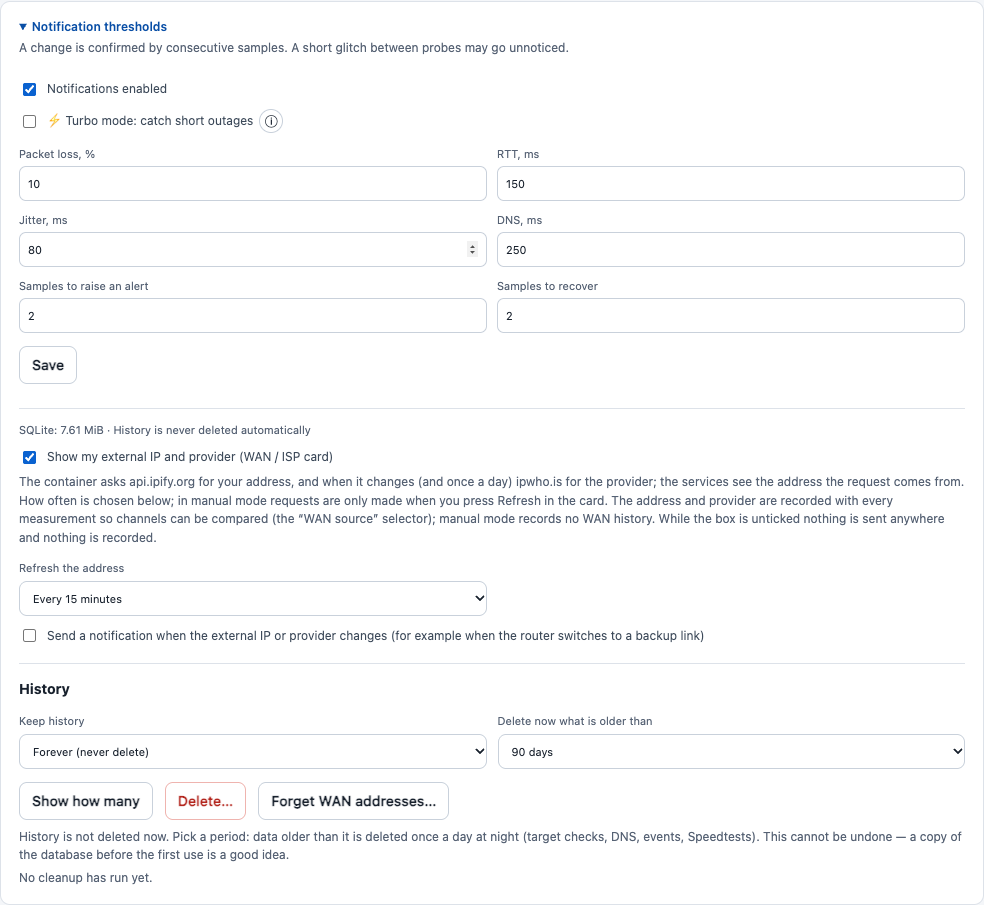
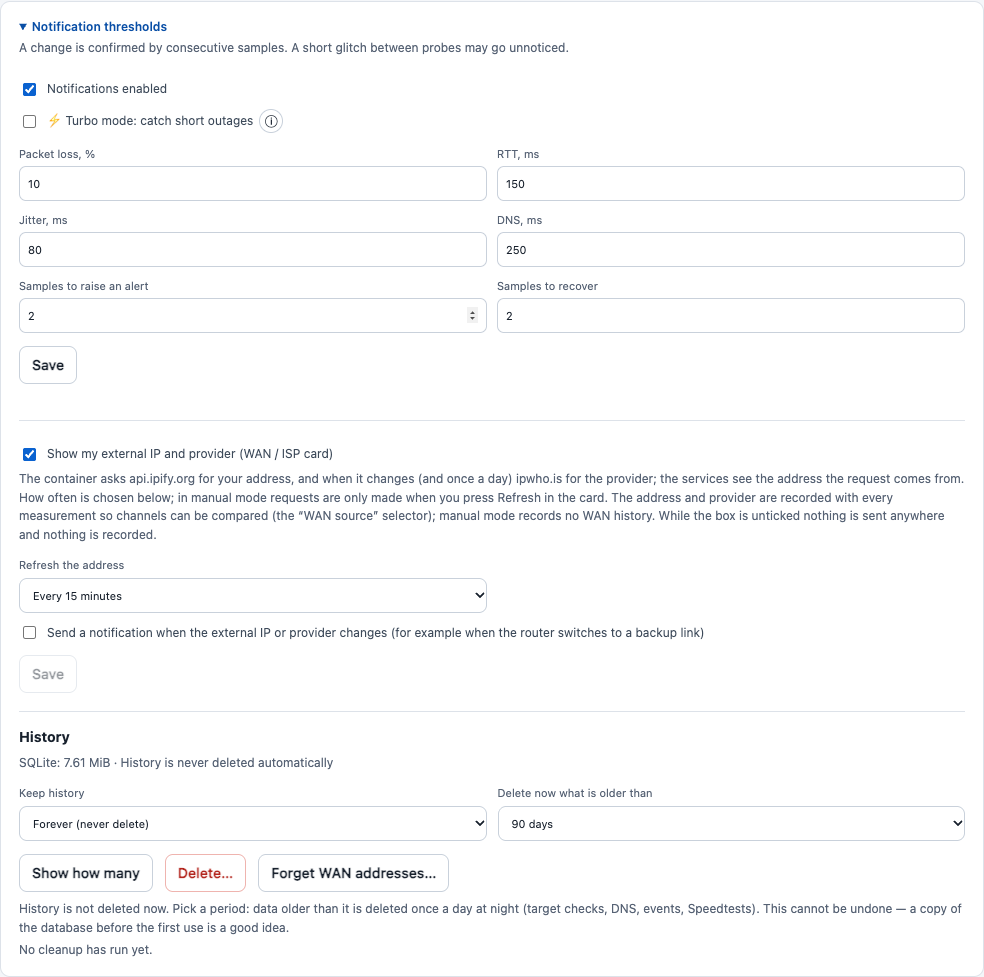
Settings: external IP options are saved with a Save button; database size moved to History
The checkbox, the check interval and the change notification are now a draft: nothing is sent until Save, a data refresh
does not overwrite what is being edited, a failed save keeps the edit, and the card shows what is stored until then.
The 'SQLite: N MiB · ...' line moved from above the external-IP block into the History block.

diff --git a/src/index.html b/src/index.html
@@ -68,6 +68,7 @@
     .head-tools { display:flex;gap:10px;align-items:center;flex-wrap:wrap;justify-content:flex-end } .head-tools .chart-select { max-width:300px }
     .wan-src { display:block;color:var(--mute);font-size:11px;overflow-wrap:anywhere }
     .btn.danger { border-color:var(--bad-line);color:var(--bad) } .btn.danger:hover:not(:disabled) { background:var(--bad-bg) }
+    #ipBox { margin-top:18px;padding-top:14px;border-top:1px solid var(--line) }
     #retBox { margin-top:18px;padding-top:14px;border-top:1px solid var(--line) }
     .pick { display:inline-flex;align-items:center;gap:6px;color:var(--mute);font-size:12px }
     .pick select { background:var(--input-bg);color:var(--text);border:1px solid var(--input-line);border-radius:var(--rad-sm);padding:8px 9px;max-width:100% }
@@ -560,8 +561,9 @@
       <div class="stack">
         <section class="card" id="dnsCard"><div class="card-head"><div><h2 data-i18n="dns.title">DNS-серверы</h2><div class="card-sub" data-i18n="dns.sub">Ответ на DNS-запросы</div></div></div><div id="dnsList"><p class="muted">…</p></div></section>
         <section class="card" id="eventsCard"><div class="card-head"><div><h2 data-i18n="events.title">События</h2><div class="card-sub" data-i18n="events.sub">Подтверждённые изменения состояния</div></div></div><div class="events" id="eventList"><p class="muted">…</p></div><div id="eventsStatus" class="section-status"></div><div class="info-note" data-i18n="events.note">Предупреждения и восстановление передаются через штатные уведомления Unraid.</div></section>
-        <section class="card" id="settingsCard"><details id="alertSettings" style="margin:0;padding:0;border:0"><summary data-i18n="set.title">Пороги уведомлений</summary><p class="card-sub" data-i18n="set.note">Изменение подтверждается последовательными замерами. Короткий сбой между пробами может остаться незамеченным.</p><form id="settingsForm"><fieldset id="settingsFields" disabled style="border:0;padding:0;margin:0"><label class="check"><input type="checkbox" id="enabled"> <span data-i18n="set.enabled">Уведомления включены</span></label><div class="turbo-row"><label class="check"><input type="checkbox" id="turbo"> <span data-i18n="set.turbo">⚡ Turbo-режим: ловить короткие обрывы</span></label><button type="button" class="info-btn" id="turboInfo" aria-haspopup="dialog" aria-controls="turboDialog" data-i18n-attr="aria-label:turbo.about;title:turbo.about">ⓘ</button></div><p class="card-sub" id="turboUnavailable" hidden data-i18n="turbo.unavailable"></p><div class="setting-grid" style="margin-top:12px"><label><span data-i18n="set.loss">Потеря пакетов, %</span><input id="loss_pct" type="number" min="0" max="100" step="any" required></label><label><span>RTT, ms</span><input id="latency_ms" type="number" min="0" max="60000" step="any" required></label><label><span data-i18n="set.jitter">Джиттер, ms</span><input id="jitter_ms" type="number" min="0" max="60000" step="any" required></label><label><span>DNS, ms</span><input id="dns_ms" type="number" min="0" max="60000" step="any" required></label><label><span data-i18n="set.confirm">Замеров для тревоги</span><input id="confirm_samples" type="number" min="1" max="20" step="1" required></label><label><span data-i18n="set.recovery">Замеров для восстановления</span><input id="recovery_samples" type="number" min="1" max="20" step="1" required></label></div><div class="settings-actions"><button class="btn" type="submit" data-i18n="set.save">Сохранить</button><span class="card-sub" id="settingsMessage" role="status"></span></div></fieldset></form><div id="settingsStatus" class="section-status"></div><div class="info-note" id="storageInfo"></div><div class="pref-row"><label class="check"><input type="checkbox" id="show_public_ip" disabled> <span data-i18n="ip.label">Показывать мой внешний IP</span></label><p class="card-sub" data-i18n="ip.note" style="margin:6px 0 0"></p><div class="form-line"><label><span data-i18n="wan.check">Обновлять адрес</span><select id="wan_check" disabled><option value="0" data-i18n="wan.c0"></option><option value="15" data-i18n="wan.c15"></option><option value="1" data-i18n="wan.c1"></option></select></label></div><label class="check"><input type="checkbox" id="wan_notify" disabled> <span data-i18n="wan.notify">Присылать уведомление при смене внешнего IP</span></label><p class="card-sub" id="wanNotifyNote" data-i18n="wan.notifyManual" style="margin:4px 0 0" hidden></p><span class="card-sub" id="ipMessage" role="status"></span></div>
+        <section class="card" id="settingsCard"><details id="alertSettings" style="margin:0;padding:0;border:0"><summary data-i18n="set.title">Пороги уведомлений</summary><p class="card-sub" data-i18n="set.note">Изменение подтверждается последовательными замерами. Короткий сбой между пробами может остаться незамеченным.</p><form id="settingsForm"><fieldset id="settingsFields" disabled style="border:0;padding:0;margin:0"><label class="check"><input type="checkbox" id="enabled"> <span data-i18n="set.enabled">Уведомления включены</span></label><div class="turbo-row"><label class="check"><input type="checkbox" id="turbo"> <span data-i18n="set.turbo">⚡ Turbo-режим: ловить короткие обрывы</span></label><button type="button" class="info-btn" id="turboInfo" aria-haspopup="dialog" aria-controls="turboDialog" data-i18n-attr="aria-label:turbo.about;title:turbo.about">ⓘ</button></div><p class="card-sub" id="turboUnavailable" hidden data-i18n="turbo.unavailable"></p><div class="setting-grid" style="margin-top:12px"><label><span data-i18n="set.loss">Потеря пакетов, %</span><input id="loss_pct" type="number" min="0" max="100" step="any" required></label><label><span>RTT, ms</span><input id="latency_ms" type="number" min="0" max="60000" step="any" required></label><label><span data-i18n="set.jitter">Джиттер, ms</span><input id="jitter_ms" type="number" min="0" max="60000" step="any" required></label><label><span>DNS, ms</span><input id="dns_ms" type="number" min="0" max="60000" step="any" required></label><label><span data-i18n="set.confirm">Замеров для тревоги</span><input id="confirm_samples" type="number" min="1" max="20" step="1" required></label><label><span data-i18n="set.recovery">Замеров для восстановления</span><input id="recovery_samples" type="number" min="1" max="20" step="1" required></label></div><div class="settings-actions"><button class="btn" type="submit" data-i18n="set.save">Сохранить</button><span class="card-sub" id="settingsMessage" role="status"></span></div></fieldset></form><div id="settingsStatus" class="section-status"></div><div class="pref-row" id="ipBox"><label class="check"><input type="checkbox" id="show_public_ip" disabled> <span data-i18n="ip.label">Показывать мой внешний IP</span></label><p class="card-sub" data-i18n="ip.note" style="margin:6px 0 0"></p><div class="form-line"><label><span data-i18n="wan.check">Обновлять адрес</span><select id="wan_check" disabled><option value="0" data-i18n="wan.c0"></option><option value="15" data-i18n="wan.c15"></option><option value="1" data-i18n="wan.c1"></option></select></label></div><label class="check"><input type="checkbox" id="wan_notify" disabled> <span data-i18n="wan.notify">Присылать уведомление при смене внешнего IP</span></label><p class="card-sub" id="wanNotifyNote" data-i18n="wan.notifyManual" style="margin:4px 0 0" hidden></p><div class="settings-actions"><button type="button" class="btn" id="ipSave" disabled data-i18n="set.save">Сохранить</button><span class="card-sub" id="ipMessage" role="status"></span></div></div>
           <div class="pref-row" id="retBox"><strong data-i18n="hist.title">История данных</strong>
+            <div class="card-sub" id="storageInfo" style="margin:6px 0 0"></div>
             <div class="form-line"><label><span data-i18n="hist.keep">Хранить историю</span><select id="retKeep" disabled><option value="0" data-i18n="hist.forever"></option><option value="7" data-i18n="hist.r7"></option><option value="30" data-i18n="hist.r30"></option><option value="90" data-i18n="hist.r90"></option><option value="180" data-i18n="hist.r180"></option><option value="365" data-i18n="hist.r365"></option></select></label><label><span data-i18n="hist.clean">Удалить сейчас данные старше</span><select id="retDays" disabled><option value="7" data-i18n="hist.r7"></option><option value="30" data-i18n="hist.r30"></option><option value="90" data-i18n="hist.r90" selected></option><option value="180" data-i18n="hist.r180"></option><option value="365" data-i18n="hist.r365"></option></select></label></div>
             <div class="settings-actions"><button type="button" class="btn" id="retPreview" disabled data-i18n="hist.preview">Показать, сколько</button><button type="button" class="btn danger" id="retDelete" disabled data-i18n="hist.delete">Удалить…</button><button type="button" class="btn" id="wanForget" disabled data-i18n="wan.forget">Забыть адреса WAN…</button></div>
             <p class="card-sub" id="retNote" style="margin:8px 0 0"></p><p class="card-sub" id="retLast" style="margin:4px 0 0"></p><span class="card-sub" id="retMsg" role="status"></span></div></details></section>
@@ -633,7 +635,7 @@
       'sched.container':'Как задано в контейнере: {state}','sched.cEvery':'каждые {h} ч','sched.cOff':'выключено','sched.noteContainer':'Расписание задают переменные контейнера SPEEDTEST_ENABLED и SPEEDTEST_INTERVAL ({state}). Выберите другой вариант, чтобы управлять им здесь.','sched.noteOff':'Автоматические тесты выключены; ручной запуск работает.','sched.noteNext':'Следующий тест: {when} · часовой пояс {tz}','sched.noteApply':'Сохраните, чтобы применить расписание.',
       'sched.invalidInterval':'Интервал — целое число часов от 1 до 168.','sched.invalidTimes':'Время — от 1 до 4 разных значений ЧЧ:ММ, например 03:00, 15:30.','sched.saving':'Сохранение…','sched.saved':'Расписание сохранено.','sched.notSaved':'Не сохранено: {e}','sched.unavailable':'Настройки расписания сейчас недоступны.',
       'set.title':'Пороги уведомлений','set.note':'Изменение подтверждается последовательными замерами. Короткий сбой между пробами может остаться незамеченным.','set.enabled':'Уведомления включены','set.loss':'Потеря пакетов, %','set.jitter':'Джиттер, ms','set.confirm':'Замеров для тревоги','set.recovery':'Замеров для восстановления','set.save':'Сохранить',
-      'ip.label':'Показывать мой внешний IP и провайдера (карточка WAN / провайдер)','ip.note':'Контейнер спрашивает api.ipify.org, какой у вас адрес, а при смене адреса (и раз в сутки) — ipwho.is, какой это провайдер; сервисы видят адрес, с которого идёт запрос. Как часто — выбирается ниже; в ручном режиме запросы идут только по кнопке «Обновить» в карточке. Адрес и провайдер записываются с каждым замером, чтобы сравнивать каналы (селектор «WAN-источник»); в ручном режиме история WAN не пишется. Пока галка снята, наружу ничего не отправляется и ничего не записывается.','wan.title':'WAN / провайдер','wan.ip':'Внешний IP','wan.isp':'Провайдер','wan.pending':'Определяется…','wan.unknown':'не указан','wan.meta':'Проверено {when} · источник {source} · {every}','wan.e0':'обновляется по кнопке','wan.e15':'проверка раз в 15 минут','wan.e1':'проверка раз в минуту','wan.refresh':'Обновить','wan.refreshing':'Обновляется…','wan.manualHint':'Нажмите «Обновить», чтобы узнать адрес и провайдера.','wan.check':'Обновлять адрес','wan.c0':'Вручную (по кнопке в карточке)','wan.c15':'Каждые 15 минут','wan.c1':'Каждую минуту','wan.notifyManual':'В ручном режиме уведомления о смене адреса недоступны: контейнер не следит за каналом.','wan.fail':'Не удалось определить адрес: {e}','ip.saveFail':'Не удалось сохранить: {e}',
+      'ip.label':'Показывать мой внешний IP и провайдера (карточка WAN / провайдер)','ip.note':'Контейнер спрашивает api.ipify.org, какой у вас адрес, а при смене адреса (и раз в сутки) — ipwho.is, какой это провайдер; сервисы видят адрес, с которого идёт запрос. Как часто — выбирается ниже; в ручном режиме запросы идут только по кнопке «Обновить» в карточке. Адрес и провайдер записываются с каждым замером, чтобы сравнивать каналы (селектор «WAN-источник»); в ручном режиме история WAN не пишется. Пока галка снята, наружу ничего не отправляется и ничего не записывается.','wan.title':'WAN / провайдер','wan.ip':'Внешний IP','wan.isp':'Провайдер','wan.pending':'Определяется…','wan.unknown':'не указан','wan.meta':'Проверено {when} · источник {source} · {every}','wan.e0':'обновляется по кнопке','wan.e15':'проверка раз в 15 минут','wan.e1':'проверка раз в минуту','wan.refresh':'Обновить','wan.refreshing':'Обновляется…','wan.manualHint':'Нажмите «Обновить», чтобы узнать адрес и провайдера.','wan.check':'Обновлять адрес','wan.c0':'Вручную (по кнопке в карточке)','wan.c15':'Каждые 15 минут','wan.c1':'Каждую минуту','wan.notifyManual':'В ручном режиме уведомления о смене адреса недоступны: контейнер не следит за каналом.','wan.fail':'Не удалось определить адрес: {e}','ip.saveFail':'Не удалось сохранить: {e}','ip.saved':'Сохранено.',
       'wan.notify':'Присылать уведомление при смене внешнего IP или провайдера (например, при переключении на резервный канал)',
       'wan.source':'WAN-источник','wan.all':'Все WAN-источники','wan.current':'Текущий WAN','wan.unknownIsp':'провайдер не указан','wan.none':'WAN не записан (до включения)','wan.samplesN':'{n} замеров','wan.noQuality':'Оценка качества относится ко всей сети и не строится для отдельного WAN','wan.bySource':'WAN','wan.forget':'Забыть адреса WAN…','wan.forgetConfirm':'Стереть записанные IP-адреса и провайдеров из всей истории? Сами измерения останутся. Это нельзя отменить.','wan.forgotten':'Адреса стёрты из {n} записей.',
       'hist.title':'История данных','hist.keep':'Хранить историю','hist.forever':'Всегда (не удалять)','hist.r7':'7 дней','hist.r30':'30 дней','hist.r90':'90 дней','hist.r180':'180 дней','hist.r365':'1 год','hist.clean':'Удалить сейчас данные старше','hist.preview':'Показать, сколько','hist.delete':'Удалить…',
@@ -698,7 +700,7 @@
       'sched.title':'Schedule and notifications','sched.mode':'Automatic tests','sched.off':'Off','sched.interval':'Every N hours','sched.daily':'Every day at set times','sched.every':'Every, hours (1–168)','sched.times':'Times, up to 4 (comma separated)','sched.notify':'Send an Unraid notification after every automatic test (and when one fails)',
       'sched.container':'As set in the container: {state}','sched.cEvery':'every {h} h','sched.cOff':'off','sched.noteContainer':'The schedule comes from the container variables SPEEDTEST_ENABLED and SPEEDTEST_INTERVAL ({state}). Pick another option to manage it here.','sched.noteOff':'Automatic tests are off; manual runs still work.','sched.noteNext':'Next test: {when} · time zone {tz}','sched.noteApply':'Save to apply the schedule.',
       'sched.invalidInterval':'The interval is a whole number of hours from 1 to 168.','sched.invalidTimes':'Times are 1 to 4 different HH:MM values, for example 03:00, 15:30.','sched.saving':'Saving…','sched.saved':'Schedule saved.','sched.notSaved':'Not saved: {e}','sched.unavailable':'Schedule settings are unavailable right now.',
-      'ip.label':'Show my external IP and provider (WAN / ISP card)','ip.note':'The container asks api.ipify.org for your address, and when it changes (and once a day) ipwho.is for the provider; the services see the address the request comes from. How often is chosen below; in manual mode requests are only made when you press Refresh in the card. The address and provider are recorded with every measurement so channels can be compared (the “WAN source” selector); manual mode records no WAN history. While the box is unticked nothing is sent anywhere and nothing is recorded.','wan.title':'WAN / ISP','wan.ip':'Public IP','wan.isp':'ISP','wan.pending':'Looking up…','wan.unknown':'not reported','wan.meta':'Checked {when} · source {source} · {every}','wan.e0':'refreshed on demand','wan.e15':'checked every 15 minutes','wan.e1':'checked every minute','wan.refresh':'Refresh','wan.refreshing':'Refreshing…','wan.manualHint':'Press Refresh to look up the address and provider.','wan.check':'Refresh the address','wan.c0':'Manually (button in the card)','wan.c15':'Every 15 minutes','wan.c1':'Every minute','wan.notifyManual':'Notifications about a changed address are not available in manual mode: the container does not watch the link.','wan.fail':'The address could not be determined: {e}','ip.saveFail':'Could not save: {e}',
+      'ip.label':'Show my external IP and provider (WAN / ISP card)','ip.note':'The container asks api.ipify.org for your address, and when it changes (and once a day) ipwho.is for the provider; the services see the address the request comes from. How often is chosen below; in manual mode requests are only made when you press Refresh in the card. The address and provider are recorded with every measurement so channels can be compared (the “WAN source” selector); manual mode records no WAN history. While the box is unticked nothing is sent anywhere and nothing is recorded.','wan.title':'WAN / ISP','wan.ip':'Public IP','wan.isp':'ISP','wan.pending':'Looking up…','wan.unknown':'not reported','wan.meta':'Checked {when} · source {source} · {every}','wan.e0':'refreshed on demand','wan.e15':'checked every 15 minutes','wan.e1':'checked every minute','wan.refresh':'Refresh','wan.refreshing':'Refreshing…','wan.manualHint':'Press Refresh to look up the address and provider.','wan.check':'Refresh the address','wan.c0':'Manually (button in the card)','wan.c15':'Every 15 minutes','wan.c1':'Every minute','wan.notifyManual':'Notifications about a changed address are not available in manual mode: the container does not watch the link.','wan.fail':'The address could not be determined: {e}','ip.saveFail':'Could not save: {e}','ip.saved':'Saved.',
       'wan.notify':'Send a notification when the external IP or provider changes (for example when the router switches to a backup link)',
       'wan.source':'WAN source','wan.all':'All WAN sources','wan.current':'Current WAN','wan.unknownIsp':'provider not reported','wan.none':'No WAN recorded (before it was switched on)','wan.samplesN':'{n} samples','wan.noQuality':'The quality score belongs to the whole network and is not drawn for a single WAN','wan.bySource':'WAN','wan.forget':'Forget WAN addresses…','wan.forgetConfirm':'Erase the recorded IP addresses and providers from the whole history? The measurements themselves stay. This cannot be undone.','wan.forgotten':'Addresses erased from {n} records.',
       'hist.title':'History','hist.keep':'Keep history','hist.forever':'Forever (never delete)','hist.r7':'7 days','hist.r30':'30 days','hist.r90':'90 days','hist.r180':'180 days','hist.r365':'1 year','hist.clean':'Delete now what is older than','hist.preview':'Show how many','hist.delete':'Delete…',
@@ -1257,15 +1259,24 @@
     if ((state.publicIp?.pending || state.publicIp?.refreshing) && (state.ipPolls = (state.ipPolls || 0) + 1) < 20) state.ipTimer = setTimeout(loadPublicIp, 1500);   // the lookup runs on the server beside the request
     else state.ipPolls = 0;
   }
+  /* The external-IP settings are a draft: nothing is sent until Save, and a refresh of the page data never overwrites what is being edited. */
+  const ipDraft = () => ({show_public_ip: $('show_public_ip').checked, wan_check_min: Number($('wan_check').value), wan_notify: $('wan_notify').checked});
+  const ipSaved = () => ({show_public_ip: state.prefs?.show_public_ip === true, wan_check_min: state.prefs?.wan_check_min ?? 15, wan_notify: state.prefs?.wan_notify === true});
+  function renderIpForm() {
+    if (state.prefs && !state.ipEditing) {
+      const saved = ipSaved();
+      $('show_public_ip').checked = saved.show_public_ip; $('wan_check').value = String(saved.wan_check_min); $('wan_notify').checked = saved.wan_notify;
+    }
+    const draft = ipDraft(), manual = draft.wan_check_min === 0, on = draft.show_public_ip, saved = ipSaved();
+    $('show_public_ip').disabled = !state.prefs || state.ipSaving === true;
+    $('wan_check').disabled = !state.prefs || !on || state.ipSaving === true;
+    $('wan_notify').disabled = !state.prefs || !on || manual || state.ipSaving === true;
+    $('wanNotifyNote').hidden = !(on && manual);
+    $('ipSave').disabled = !state.prefs || state.ipSaving === true || !Object.keys(draft).some(k => draft[k] !== saved[k]);
+  }
   function renderPublicIp() {
     const r = state.publicIp, card = $('wanCard');
-    $('show_public_ip').disabled = !state.prefs;
-    if (state.prefs) { $('show_public_ip').checked = state.prefs.show_public_ip === true; $('wan_notify').checked = state.prefs.wan_notify === true; }
-    const manual = state.prefs?.wan_check_min === 0, on = state.prefs?.show_public_ip === true;
-    if (state.prefs && !state.wanCheckEditing) $('wan_check').value = String(state.prefs.wan_check_min ?? 15);
-    $('wan_check').disabled = !state.prefs || !on;
-    $('wan_notify').disabled = !state.prefs || !on || manual;
-    $('wanNotifyNote').hidden = !(on && manual);
+    renderIpForm();
     card.hidden = !r || r.enabled !== true;
     if (card.hidden) return;
     const busy = r.pending || r.refreshing === true || state.wanRefreshing === true;
@@ -1281,15 +1292,6 @@
     catch (e) { say('ipMessage', 'ip.saveFail', {e: errorText(e)}); }
     state.wanRefreshing = false; renderPublicIp();
     if (state.publicIp?.refreshing) state.ipTimer = setTimeout(loadPublicIp, 1000);
-  }
-  async function saveWanCheck() {
-    const minutes = Number($('wan_check').value);
-    $('wan_check').disabled = true;
-    try {
-      const result = await api('/api/prefs', {method:'POST', headers:{'Content-Type':'application/json', 'X-NetProbe-Request':'settings'}, body:JSON.stringify({wan_check_min: minutes})});
-      state.prefs = result.prefs; say('ipMessage', null);
-    } catch (e) { say('ipMessage', 'ip.saveFail', {e: errorText(e)}); }
-    finally { state.wanCheckEditing = false; renderPublicIp(); loadPublicIp(); }
   }
   /* ---------- history retention: a period for the nightly cleanup, and an on-demand cleanup with preview and confirmation ---------- */
   const mib = b => numeric(b) ? (b / 1048576).toFixed(2) + ' MiB' : '—';
@@ -1329,26 +1331,19 @@
     } catch (e) { say('retMsg', 'hist.fail', {e: errorText(e)}); }
     finally { state.historyBusy = false; state.historyEditing = false; renderHistory(); }
   }
-  async function saveWanNotify() {
-    const on = $('wan_notify').checked;
-    $('wan_notify').disabled = true;
+  async function saveIpSettings() {
+    const draft = ipDraft(), before = ipSaved();
+    state.ipSaving = true; renderIpForm(); say('ipMessage', null);
     try {
-      const result = await api('/api/prefs', {method:'POST', headers:{'Content-Type':'application/json', 'X-NetProbe-Request':'settings'}, body:JSON.stringify({wan_notify: on})});
-      state.prefs = result.prefs; say('ipMessage', null);
-    } catch (e) { $('wan_notify').checked = !on; say('ipMessage', 'ip.saveFail', {e: errorText(e)}); }
-    finally { renderPublicIp(); }
-  }
-  async function savePublicIp() {
-    const on = $('show_public_ip').checked;
-    $('show_public_ip').disabled = true;
-    try {
-      const result = await api('/api/prefs', {method:'POST', headers:{'Content-Type':'application/json', 'X-NetProbe-Request':'settings'}, body:JSON.stringify({show_public_ip:on})});
-      state.prefs = result.prefs; say('ipMessage', null);
-      state.publicIp = on ? {enabled: true, pending: true} : {enabled: false};
-      renderPublicIp();
-      if (on && state.prefs.wan_check_min === 0) refreshWan(); else loadPublicIp();   // manual mode never looks up by itself, but switching the card on is a request
-    } catch (e) { $('show_public_ip').checked = !on; say('ipMessage', 'ip.saveFail', {e: errorText(e)}); }
-    finally { renderPublicIp(); }
+      const result = await api('/api/prefs', {method:'POST', headers:{'Content-Type':'application/json', 'X-NetProbe-Request':'settings'}, body:JSON.stringify(draft)});
+      state.prefs = result.prefs; state.ipEditing = false; say('ipMessage', 'ip.saved');
+      if (!draft.show_public_ip) { state.publicIp = {enabled: false}; renderPublicIp(); }
+      else if (!before.show_public_ip) {
+        state.publicIp = {enabled: true, pending: draft.wan_check_min !== 0, every_min: draft.wan_check_min}; renderPublicIp();
+        if (draft.wan_check_min === 0) refreshWan(); else loadPublicIp();   // manual mode never looks up by itself, but switching the card on is a request
+      } else loadPublicIp();
+    } catch (e) { say('ipMessage', 'ip.saveFail', {e: errorText(e)}); }   // the draft stays so it can be saved again
+    finally { state.ipSaving = false; renderPublicIp(); }
   }
   const TIME_OF_DAY = /^([01]\d|2[0-3]):[0-5]\d$/;
   function fillSchedule() {
@@ -1478,7 +1473,7 @@
   $('goSettings').addEventListener('click', () => { openTab('settings'); $('unifiTabs').scrollIntoView({behavior: reduceMotion() ? 'auto' : 'smooth', block:'start'}); });
   $('tilesRow').addEventListener('click', event => { const b = event.target.closest('[data-target]'); if (b) { selectTarget(b.dataset.target); $('diagnostics').scrollIntoView({behavior: reduceMotion() ? 'auto' : 'smooth', block:'start'}); } });
   $('chartTarget').addEventListener('change', () => selectTarget($('chartTarget').value));
-  $('refreshBtn').addEventListener('click', refresh); $('speedBtn').addEventListener('click', runSpeed); $('speedBackend').addEventListener('change', saveService); $('schedForm').addEventListener('submit', saveSchedule); $('show_public_ip').addEventListener('change', savePublicIp); $('wan_notify').addEventListener('change', saveWanNotify); $('wan_check').addEventListener('focus', () => { state.wanCheckEditing = true; }); $('wan_check').addEventListener('change', saveWanCheck); $('wan_check').addEventListener('blur', () => { state.wanCheckEditing = false; }); $('wanRefresh').addEventListener('click', refreshWan); $('retKeep').addEventListener('focus', () => { state.historyEditing = true; }); $('retKeep').addEventListener('change', saveRetention); $('retKeep').addEventListener('blur', () => { state.historyEditing = false; }); $('wanSelectChart').addEventListener('change', event => chooseWan(event.target.value)); $('wanSelectTargets').addEventListener('change', event => chooseWan(event.target.value)); $('wanForget').addEventListener('click', forgetWan); $('retPreview').addEventListener('click', () => previewHistory(false)); $('retDelete').addEventListener('click', () => previewHistory(true)); $('schedMode').addEventListener('change', renderSchedule); $('forceAuto').addEventListener('change', updateSpeedControls);
+  $('refreshBtn').addEventListener('click', refresh); $('speedBtn').addEventListener('click', runSpeed); $('speedBackend').addEventListener('change', saveService); $('schedForm').addEventListener('submit', saveSchedule); $('show_public_ip').addEventListener('change', () => { state.ipEditing = true; say('ipMessage', null); renderIpForm(); }); $('wan_notify').addEventListener('change', () => { state.ipEditing = true; say('ipMessage', null); renderIpForm(); }); $('wan_check').addEventListener('change', () => { state.ipEditing = true; say('ipMessage', null); renderIpForm(); }); $('ipSave').addEventListener('click', saveIpSettings); $('wanRefresh').addEventListener('click', refreshWan); $('retKeep').addEventListener('focus', () => { state.historyEditing = true; }); $('retKeep').addEventListener('change', saveRetention); $('retKeep').addEventListener('blur', () => { state.historyEditing = false; }); $('wanSelectChart').addEventListener('change', event => chooseWan(event.target.value)); $('wanSelectTargets').addEventListener('change', event => chooseWan(event.target.value)); $('wanForget').addEventListener('click', forgetWan); $('retPreview').addEventListener('click', () => previewHistory(false)); $('retDelete').addEventListener('click', () => previewHistory(true)); $('schedMode').addEventListener('change', renderSchedule); $('forceAuto').addEventListener('change', updateSpeedControls);
   $('settingsForm').addEventListener('submit', saveSettings); $('settingsForm').addEventListener('input', () => { state.settingsDirty = true; say('settingsMessage', 'set.dirty'); });
   $('detailsLog').addEventListener('toggle', loadLogs);
   $('turboInfo').addEventListener('click', () => $('turboDialog').showModal());

diff --git a/CHANGELOG.md b/CHANGELOG.md
@@ -5,6 +5,8 @@ The project is called **NetProbe Enhanced** (container, image, file and table na
 
 ## Unreleased
 
+- **Settings tidy-up:** the database size line moved into the *History* block, and the external-IP options (checkbox, interval,
+  notification) are now a draft with a **Save** button instead of applying at once; a failed save keeps what you typed.
 - **How often the external IP is checked** (settings, next to *Show my external IP and provider*): every 15 minutes (default),
   every minute, or **manually**. In manual mode nothing is requested until *Refresh* is pressed in the *WAN / ISP* card
   (`POST /api/public-ip/refresh`; ticking the option counts as one request); no WAN history is recorded and no change message
